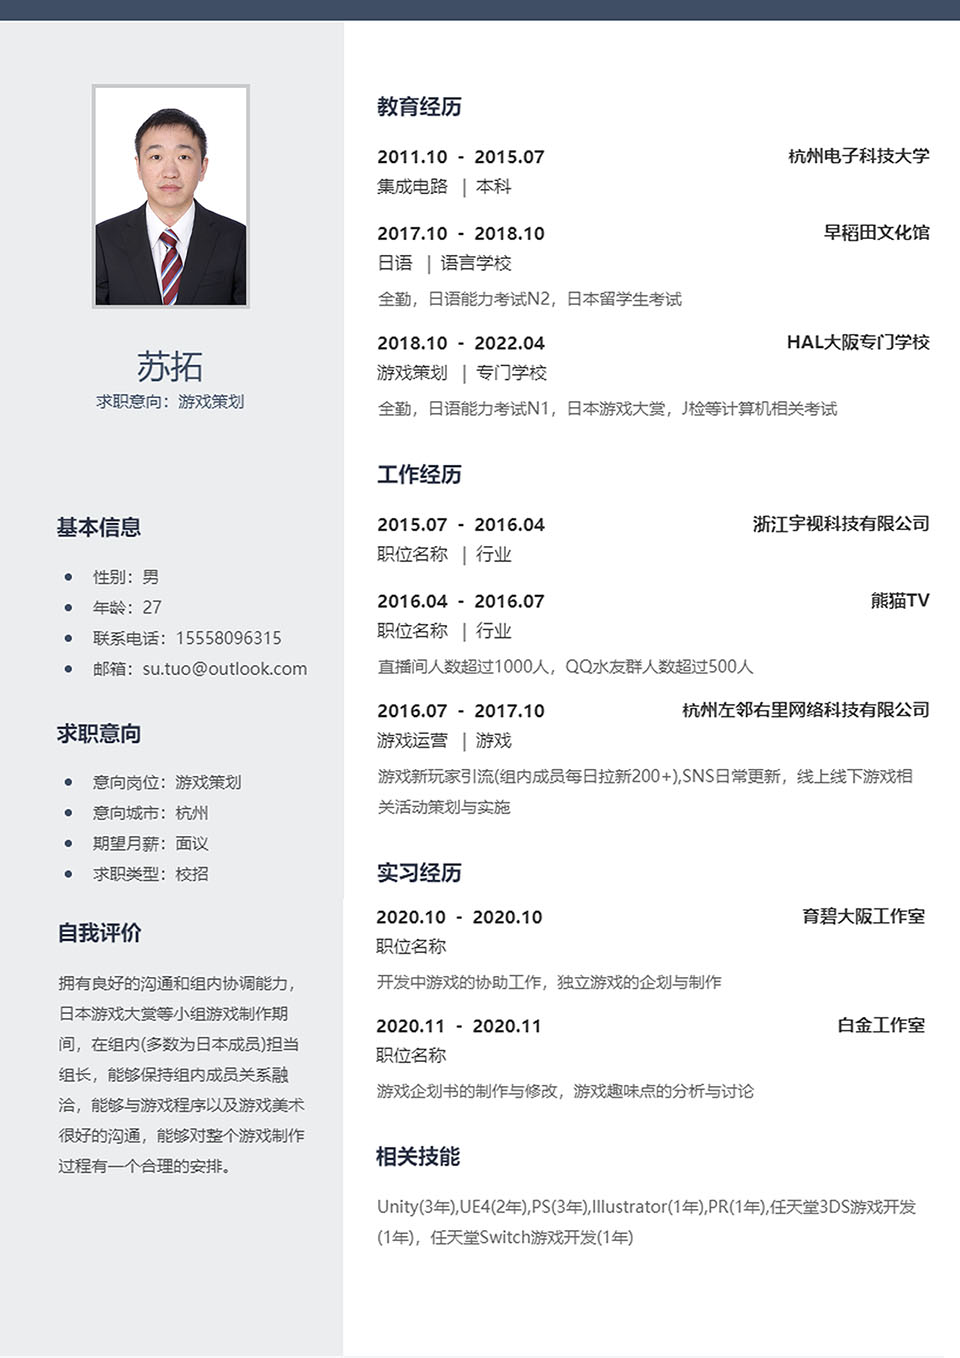
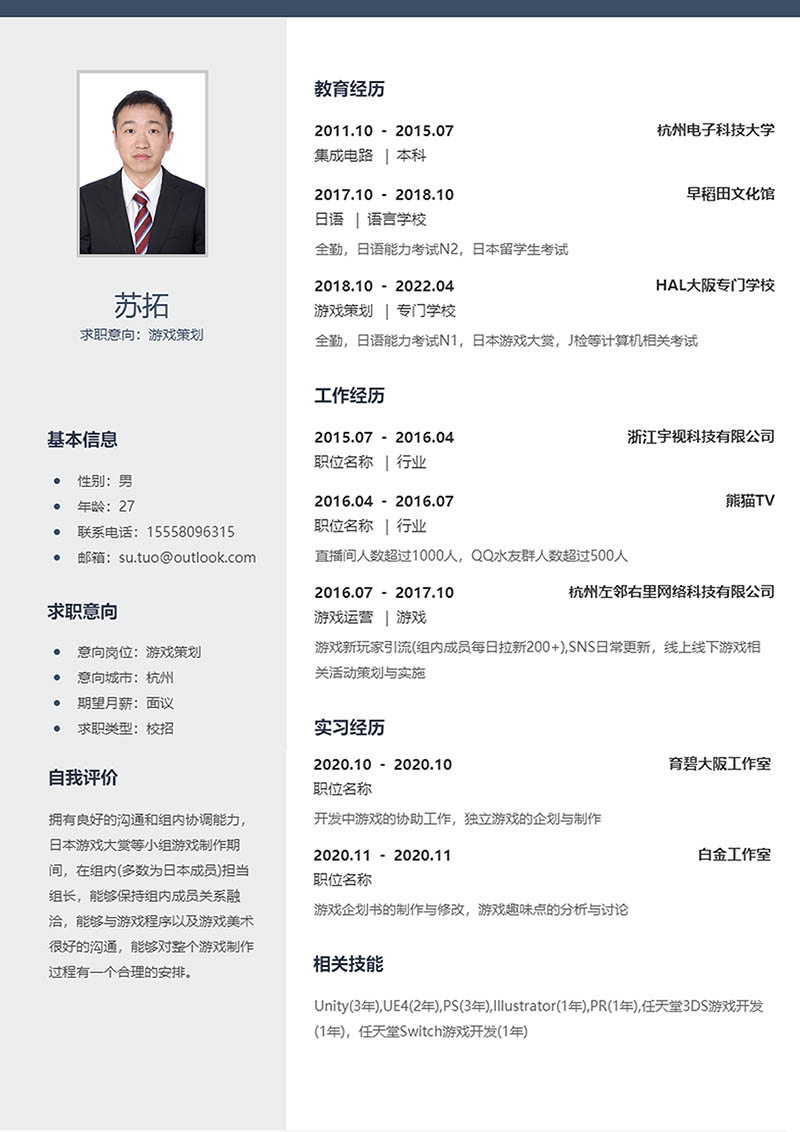
Merge branch 'main' of https://github.com/SotakuStudio/SotakuStudio.github.io into main

diff --git a/_posts/2021-01-21-gd-tuosu-site-launched.md b/_posts/2021-01-21-gd-tuosu-site-launched.md
@@ -1,7 +1,7 @@
 ---
 layout: post
-title: "2021年01月21日的博客"
-date: 2021-01-21
+title: "简历(中文)"
+date: 2021-01-01
 ---
-![Image text](https://github.com/SotakuStudio/SotakuStudio.github.io/blob/main/_posts/image/chnimage/resume_sutuo_chn.png?raw=true)
-Well. Finally got around to putting this old website together. Neat thing about it - powered by [Jekyll](http://jekyllrb.com) and I can use Markdown to author my posts. It actually is a lot easier than I thought it was going to be.
+![Image text](https://github.com/SotakuStudio/SotakuStudio.github.io/blob/main/_posts/image/chnimage/resume_sutuo_chn.jpg?raw=true)
+Well. Finally got around to putting this old website together. Neat thing about it - powered by [Jekyll](http://jekyllrb.com{:target="_blank"}) {:target="_blank"}and I can use Markdown to author my posts. It actually is a lot easier than I thought it was going to be.
